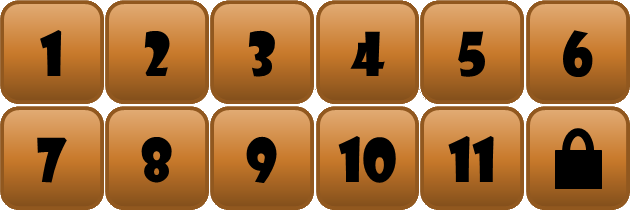
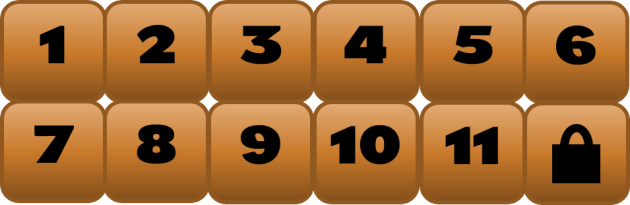
Asset Changes

diff --git a/public/world_test/js/Game.js b/public/world_test/js/Game.js
@@ -22,9 +22,20 @@ class MainMenu extends GameScene {
 
     preload() {
         
+        //Background Image
         this.load.image('mainbackground', 'assets/Background.png');
-        this.load.spritesheet('buttons', 'assets/Buttons.png', {frameWidth: 506, frameHeight: 105});
+
+        //Main Menu Title
+        this.load.image('mmtitle', 'assets/Titles/SheerMadnessTitle.png');
+
+        //Main Menu Buttons
+        this.load.image('play', 'assets/Buttons/Play.png');
+        this.load.image('levelselect', 'assets/Buttons/LevelSelect.png');
+        this.load.image('settings', 'assets/Buttons/Settings.png');
+        this.load.image('about', 'assets/Buttons/About.png');
+        
         this.load.spritesheet('titles', 'assets/Titles.png', {frameWidth: 801, frameHeight: 200});
+        //Main Menu Audio
         this.load.audio('menu', 'music/menu.mp3');
         this.load.audio('bell', 'sfx/Cowbell.mp3');
     }
@@ -40,12 +51,12 @@ class MainMenu extends GameScene {
         var background = this.add.tileSprite(960, 540, 0, 0, 'mainbackground');
         background.setDepth(-1);
 
-        var mmtitle     = this.add.sprite(960, 150, 'titles', 0);
+        var mmtitle     = this.add.sprite(960, 150, 'mmtitle');
 
-        var start       = this.add.sprite(960, 450, 'buttons', 0).setInteractive();
-        var levelsel    = this.add.sprite(960, 570, 'buttons', 1).setInteractive();
-        var setting     = this.add.sprite(960, 690, 'buttons', 2).setInteractive();
-        var about       = this.add.sprite(960, 810, 'buttons', 3).setInteractive();
+        var start       = this.add.sprite(960, 450, 'play').setInteractive();
+        var levelsel    = this.add.sprite(960, 570, 'levelselect').setInteractive();
+        var setting     = this.add.sprite(960, 690, 'settings').setInteractive();
+        var about       = this.add.sprite(960, 810, 'about').setInteractive();
 
         start.on('pointerdown', function(event) {
             this.bell.play();
@@ -217,7 +228,7 @@ class AboutMenu extends GameScene {
         this.load.image('mainbackground', 'assets/Background.png');
         this.load.spritesheet('titles', 'Titles.png', {frameWidth: 801, frameHeight: 200});
         this.load.spritesheet('buttons', 'assets/Buttons.png', {frameWidth: 506, frameHeight: 105});
-        this.load.image('about', 'assets/AboutV2.png');
+        this.load.image('about', 'assets/About.png');
 
     }
 
